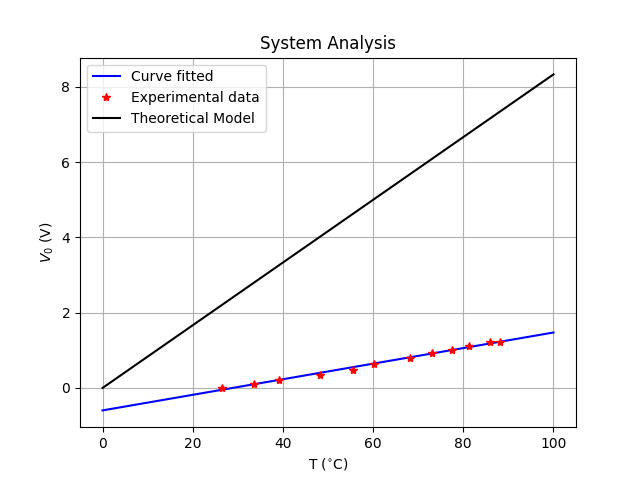
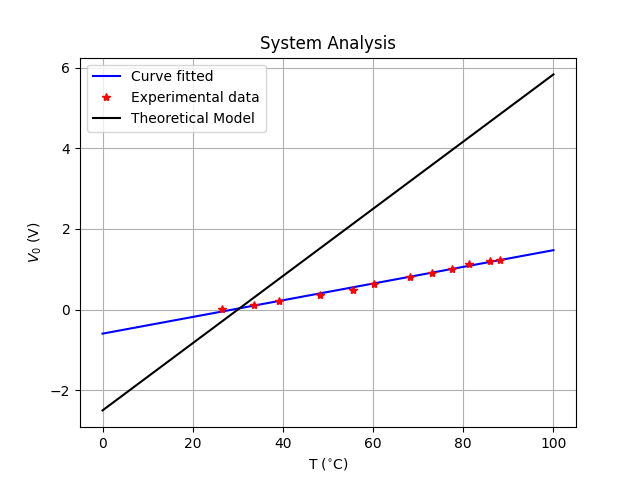
update

diff --git a/practica2/analysis.py b/practica2/analysis.py
@@ -232,7 +232,7 @@ sys_equation = f"V_0[V] = ({param_sys[0]:.5f} ± {err_sys[0]:.2}) * t + ({param_
 print(sys_equation)
 
 # Model
-v_o_modelT = linear(t_theoretical, G * sl, 0)
+v_o_modelT = linear(t_theoretical, G * sl, G*sl*(-30))
 
 # ERRORS
 zero_err_sys = zero_error(param_sys)
